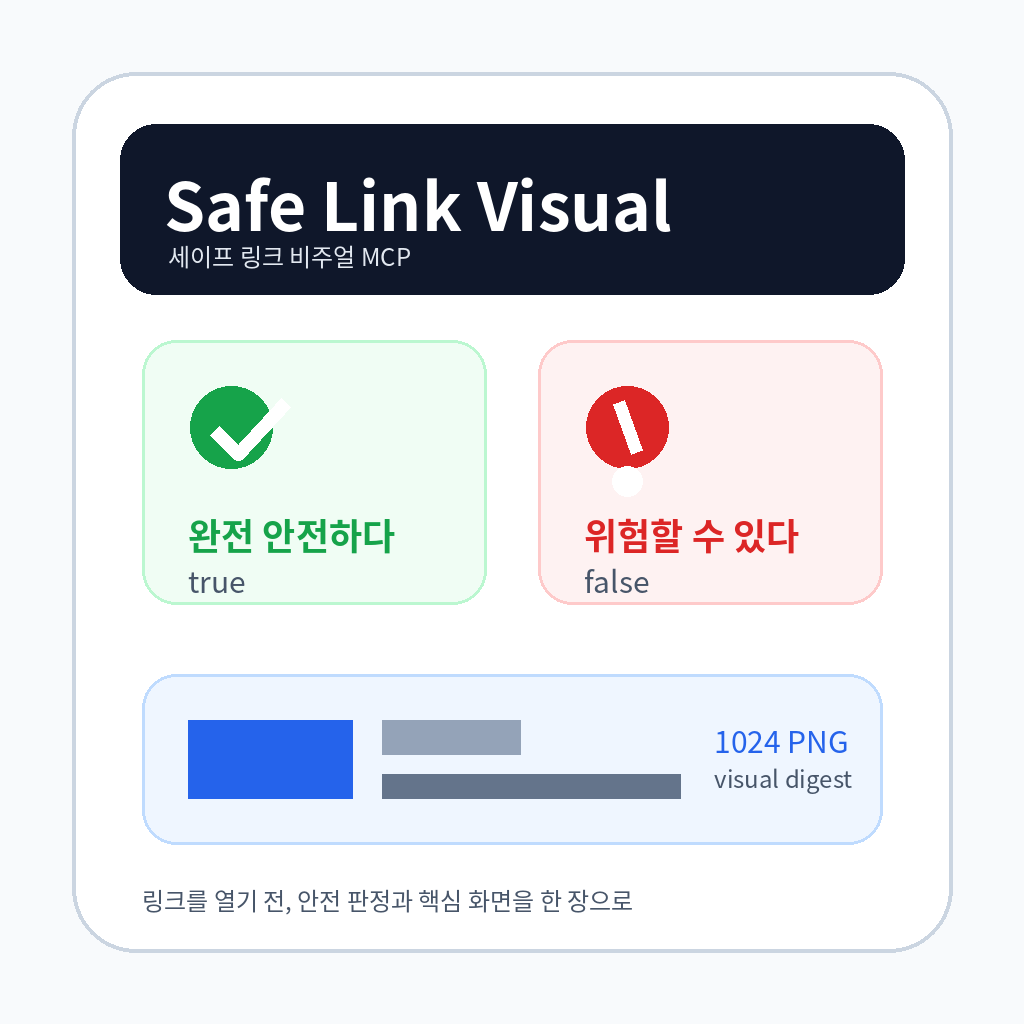
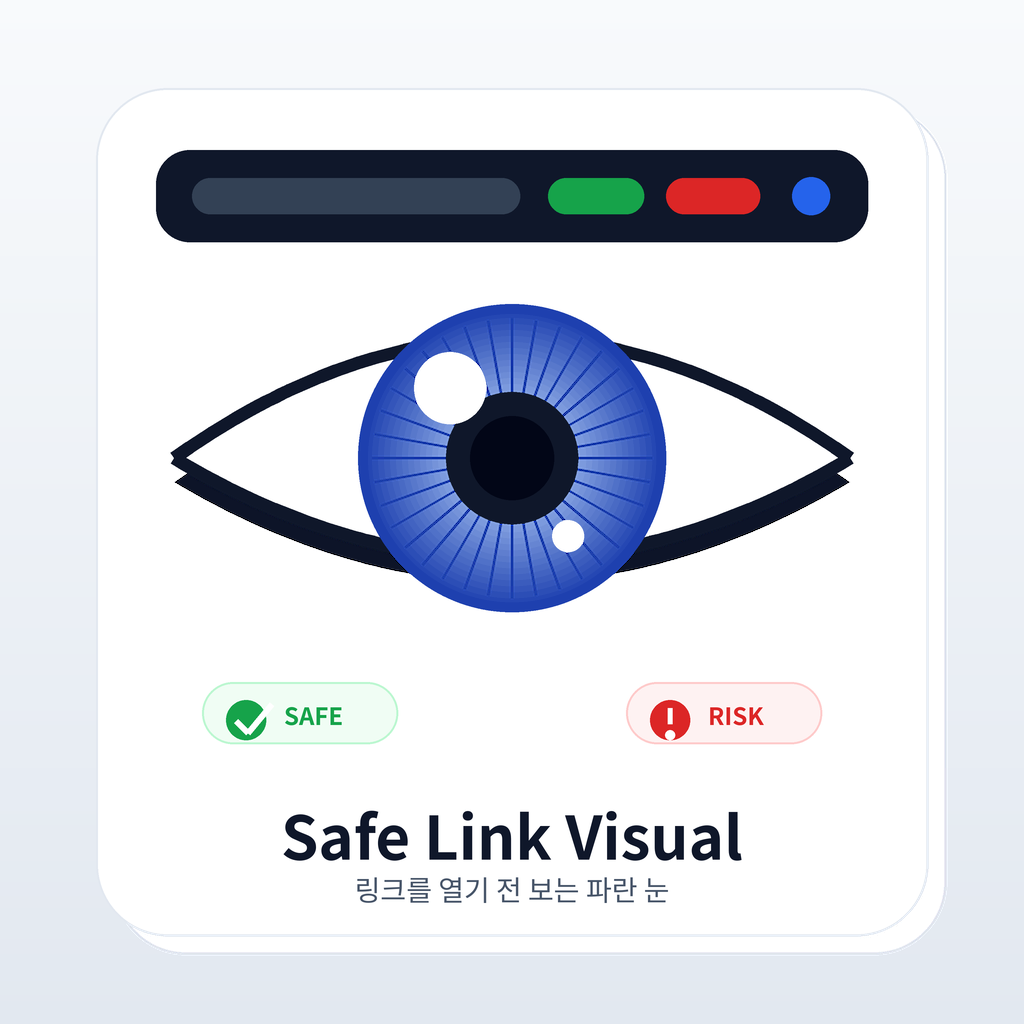
Update PlayMCP registration assets

Changed region(s): [[0.0625, 0.0625, 0.9375, 0.9375]]

diff --git a/scripts/create_playmcp_cover.py b/scripts/create_playmcp_cover.py
@@ -1,5 +1,6 @@
 from __future__ import annotations
 
+import math
 from pathlib import Path
 
 from PIL import Image, ImageDraw, ImageFont
@@ -7,6 +8,7 @@ from PIL import Image, ImageDraw, ImageFont
 
 OUT = Path("assets/playmcp-cover.png")
 SIZE = 1024
+SCALE = 3
 
 
 def font(size: int, bold: bool = False) -> ImageFont.ImageFont:
@@ -24,50 +26,146 @@ def font(size: int, bold: bool = False) -> ImageFont.ImageFont:
     return ImageFont.load_default()
 
 
+def scaled(value: float) -> int:
+    return int(round(value * SCALE))
+
+
+def box(values: tuple[float, float, float, float]) -> tuple[int, int, int, int]:
+    return tuple(scaled(value) for value in values)
+
+
+def point(values: tuple[float, float]) -> tuple[int, int]:
+    return tuple(scaled(value) for value in values)
+
+
+def bezier(
+    start: tuple[float, float],
+    control: tuple[float, float],
+    end: tuple[float, float],
+    steps: int = 88,
+) -> list[tuple[int, int]]:
+    points = []
+    for index in range(steps + 1):
+        t = index / steps
+        x = (1 - t) ** 2 * start[0] + 2 * (1 - t) * t * control[0] + t**2 * end[0]
+        y = (1 - t) ** 2 * start[1] + 2 * (1 - t) * t * control[1] + t**2 * end[1]
+        points.append(point((x, y)))
+    return points
+
+
+def interpolate(a: tuple[int, int, int], b: tuple[int, int, int], t: float) -> tuple[int, int, int]:
+    return tuple(int(round(a[i] + (b[i] - a[i]) * t)) for i in range(3))
+
+
+def centered_text_x(draw: ImageDraw.ImageDraw, text: str, text_font: ImageFont.ImageFont) -> float:
+    text_box = draw.textbbox((0, 0), text, font=text_font)
+    width = (text_box[2] - text_box[0]) / SCALE
+    return (SIZE - width) / 2
+
+
 def main() -> None:
     OUT.parent.mkdir(parents=True, exist_ok=True)
-    image = Image.new("RGB", (SIZE, SIZE), (248, 250, 252))
+    canvas = SIZE * SCALE
+    image = Image.new("RGBA", (canvas, canvas), (248, 250, 252, 255))
     draw = ImageDraw.Draw(image)
 
     ink = (15, 23, 42)
     muted = (71, 85, 105)
-    red = (220, 38, 38)
-    green = (22, 163, 74)
     blue = (37, 99, 235)
-    line = (203, 213, 225)
-    panel = (255, 255, 255)
+    deep_blue = (30, 64, 175)
+    light_blue = (191, 219, 254)
+    green = (22, 163, 74)
+    red = (220, 38, 38)
 
-    title = font(66, True)
-    subtitle = font(36, True)
-    body = font(30)
-    small = font(24)
+    title = font(60 * SCALE, True)
+    subtitle = font(28 * SCALE)
+    chip = font(24 * SCALE, True)
 
-    draw.rounded_rectangle((72, 72, 952, 952), radius=64, fill=panel, outline=line, width=4)
-    draw.rounded_rectangle((120, 124, 904, 294), radius=36, fill=ink)
-    draw.text((164, 154), "Safe Link Visual", font=title, fill=(255, 255, 255))
-    draw.text((168, 238), "세이프 링크 비주얼 MCP", font=small, fill=(226, 232, 240))
+    for y in range(canvas):
+        t = y / (canvas - 1)
+        color = interpolate((248, 250, 252), (226, 232, 240), t)
+        draw.line((0, y, canvas, y), fill=(*color, 255))
 
-    draw.rounded_rectangle((142, 340, 486, 604), radius=34, fill=(240, 253, 244), outline=(187, 247, 208), width=3)
-    draw.ellipse((190, 386, 272, 468), fill=green)
-    draw.line((214, 430, 238, 454, 286, 402), fill=(255, 255, 255), width=14, joint="curve")
-    draw.text((188, 508), "완전 안전하다", font=subtitle, fill=green)
-    draw.text((188, 558), "true", font=body, fill=muted)
+    for offset, alpha in ((18, 52), (0, 255)):
+        draw.rounded_rectangle(
+            box((96 + offset, 88 + offset, 928 + offset, 936 + offset)),
+            radius=scaled(72),
+            fill=(255, 255, 255, alpha),
+            outline=(226, 232, 240, alpha),
+            width=scaled(2),
+        )
 
-    draw.rounded_rectangle((538, 340, 882, 604), radius=34, fill=(254, 242, 242), outline=(254, 202, 202), width=3)
-    draw.ellipse((586, 386, 668, 468), fill=red)
-    draw.line((618, 402, 636, 452), fill=(255, 255, 255), width=12)
-    draw.ellipse((612, 466, 642, 496), fill=(255, 255, 255))
-    draw.text((584, 508), "위험할 수 있다", font=subtitle, fill=red)
-    draw.text((584, 558), "false", font=body, fill=muted)
+    draw.rounded_rectangle(box((156, 150, 868, 242)), radius=scaled(34), fill=(15, 23, 42, 255))
+    draw.rounded_rectangle(box((192, 178, 520, 214)), radius=scaled(18), fill=(51, 65, 85, 255))
+    draw.rounded_rectangle(box((548, 178, 644, 214)), radius=scaled(18), fill=(*green, 255))
+    draw.rounded_rectangle(box((666, 178, 760, 214)), radius=scaled(18), fill=(*red, 255))
+    draw.ellipse(box((792, 177, 830, 215)), fill=(*blue, 255))
 
-    draw.rounded_rectangle((142, 674, 882, 844), radius=34, fill=(239, 246, 255), outline=(191, 219, 254), width=3)
-    draw.rectangle((188, 720, 352, 798), fill=blue)
-    draw.rectangle((382, 720, 520, 754), fill=(148, 163, 184))
-    draw.rectangle((382, 774, 680, 798), fill=(100, 116, 139))
-    draw.text((714, 718), "1024 PNG", font=body, fill=blue)
-    draw.text((714, 760), "visual digest", font=small, fill=muted)
+    top = bezier((174, 458), (512, 218), (850, 458))
+    bottom = bezier((174, 458), (512, 660), (850, 458))
+    eye_shape = top + list(reversed(bottom))
 
-    draw.text((142, 882), "링크를 열기 전, 안전 판정과 핵심 화면을 한 장으로", font=small, fill=muted)
+    shadow = [(x, y + scaled(24)) for x, y in eye_shape]
+    draw.polygon(shadow, fill=(15, 23, 42, 38))
+    draw.polygon(eye_shape, fill=(255, 255, 255, 255))
+    draw.line(top, fill=(15, 23, 42, 255), width=scaled(13), joint="curve")
+    draw.line(bottom, fill=(15, 23, 42, 255), width=scaled(13), joint="curve")
+
+    center = (512, 458)
+    for radius in range(152, 18, -6):
+        t = (152 - radius) / 134
+        color = interpolate(deep_blue, light_blue, t)
+        draw.ellipse(
+            box((center[0] - radius, center[1] - radius, center[0] + radius, center[1] + radius)),
+            fill=(*color, 255),
+        )
+
+    for angle in range(0, 360, 10):
+        radians = math.radians(angle)
+        inner = scaled(42)
+        outer = scaled(140)
+        x1 = scaled(center[0]) + int(math.cos(radians) * inner)
+        y1 = scaled(center[1]) + int(math.sin(radians) * inner)
+        x2 = scaled(center[0]) + int(math.cos(radians) * outer)
+        y2 = scaled(center[1]) + int(math.sin(radians) * outer)
+        draw.line((x1, y1, x2, y2), fill=(30, 64, 175, 58), width=scaled(3))
+
+    draw.ellipse(box((358, 304, 666, 612)), outline=(30, 64, 175, 255), width=scaled(10))
+    draw.ellipse(box((446, 392, 578, 524)), fill=(15, 23, 42, 255))
+    draw.ellipse(box((470, 416, 554, 500)), fill=(2, 6, 23, 255))
+    draw.ellipse(box((414, 352, 486, 424)), fill=(255, 255, 255, 225))
+    draw.ellipse(box((552, 520, 584, 552)), fill=(255, 255, 255, 190))
+
+    draw.rounded_rectangle(
+        box((202, 682, 398, 744)),
+        radius=scaled(31),
+        fill=(240, 253, 244, 255),
+        outline=(187, 247, 208, 255),
+        width=scaled(2),
+    )
+    draw.ellipse(box((226, 700, 266, 740)), fill=(*green, 255))
+    draw.line((scaled(236), scaled(721), scaled(248), scaled(733), scaled(272), scaled(704)), fill=(255, 255, 255, 255), width=scaled(6))
+    draw.text(point((284, 697)), "SAFE", font=chip, fill=green)
+
+    draw.rounded_rectangle(
+        box((626, 682, 822, 744)),
+        radius=scaled(31),
+        fill=(254, 242, 242, 255),
+        outline=(254, 202, 202, 255),
+        width=scaled(2),
+    )
+    draw.ellipse(box((650, 700, 690, 740)), fill=(*red, 255))
+    draw.line((scaled(670), scaled(708), scaled(670), scaled(724)), fill=(255, 255, 255, 255), width=scaled(5))
+    draw.ellipse(box((665, 730, 675, 740)), fill=(255, 255, 255, 255))
+    draw.text(point((708, 697)), "RISK", font=chip, fill=red)
+
+    title_text = "Safe Link Visual"
+    draw.text(point((centered_text_x(draw, title_text, title), 790)), title_text, font=title, fill=ink)
+
+    subtitle_text = "링크를 열기 전 보는 파란 눈"
+    draw.text(point((centered_text_x(draw, subtitle_text, subtitle), 868)), subtitle_text, font=subtitle, fill=muted)
+
+    image = image.resize((SIZE, SIZE), Image.Resampling.LANCZOS).convert("RGB")
     image.save(OUT, format="PNG", optimize=True)
     print(f"created {OUT}")
 

diff --git a/PLAYMCP_SUBMISSION.md b/PLAYMCP_SUBMISSION.md
@@ -22,7 +22,7 @@ PAT: 비공개 저장소일 때만 입력
 대표 이미지: assets/playmcp-cover.png
 MCP 이름: Safe Link Visual
 MCP 식별자: safeLinkVisual
-MCP 설명: URL을 열기 전 피싱 위험을 완전 안전하다/위험할 수 있다로 판정하고, 핵심 화면과 판단 근거를 정사각형 이미지로 압축해 보여주는 링크 안전 브리핑 MCP입니다.
+MCP 설명: 학습 데이터셋은 사용하지 않습니다. URL·DNS·HTTP·HTML·모바일 렌더링 신호를 OWASP SSRF, IANA 특수 IP, IETF URI/IDNA, MDN, Google Safe Browsing 공개 문서를 참고한 규칙으로 검사해 '완전 안전하다/위험할 수 있다'로 판정하고 핵심 화면 요약 이미지를 제공합니다.
 인증 방식: 인증 사용하지 않음
 MCP Endpoint: https://YOUR_PUBLIC_DOMAIN/mcp
 ```
@@ -34,9 +34,9 @@ MCP Endpoint: https://YOUR_PUBLIC_DOMAIN/mcp
 각 문장은 40자 이하입니다.
 
 ```text
-이 링크 열어도 안전해?
-수상한 로그인 링크인지 확인해줘
-사이트 미리보기 이미지 보여줘
+이 링크 위험해?
+피싱 링크인지 봐줘
+사이트 요약 이미지 보여줘
 ```
 
 ## MCP Tools